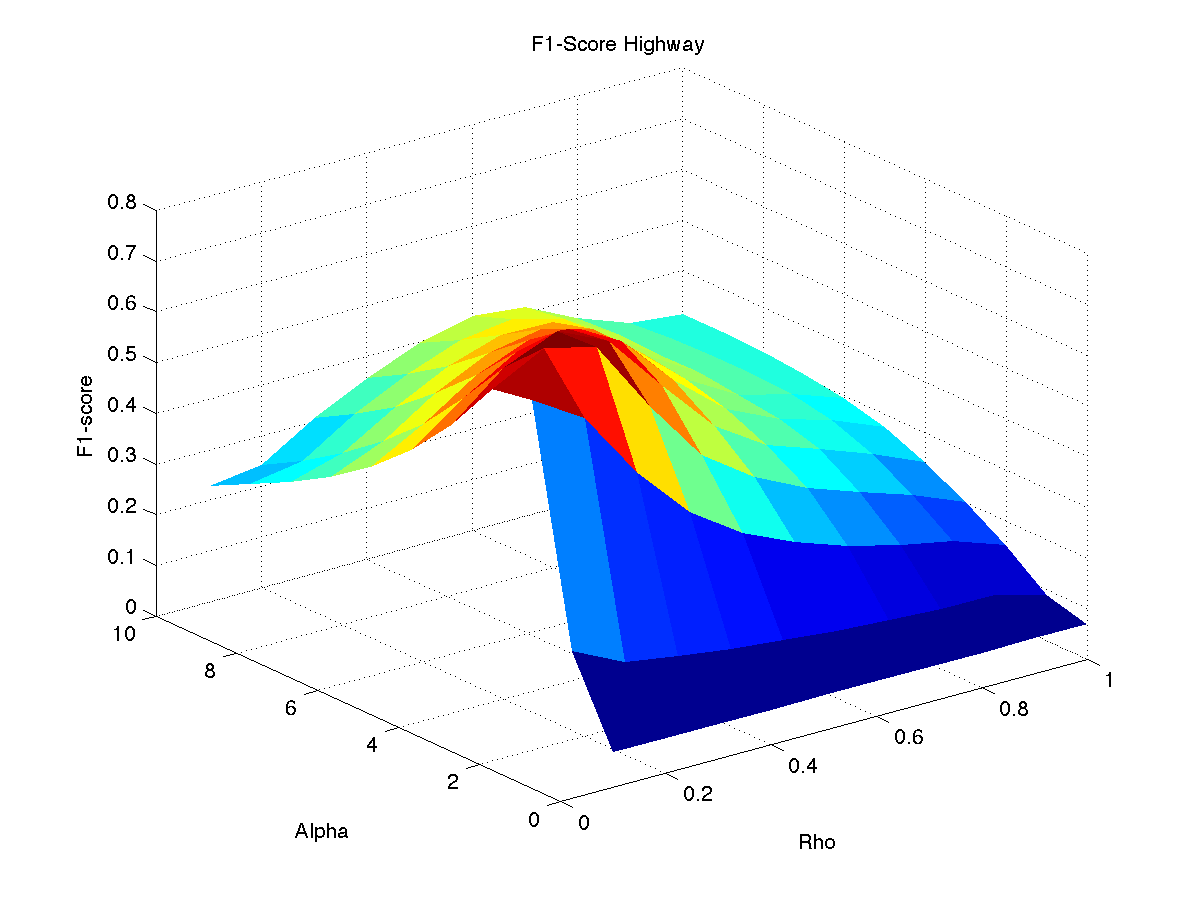
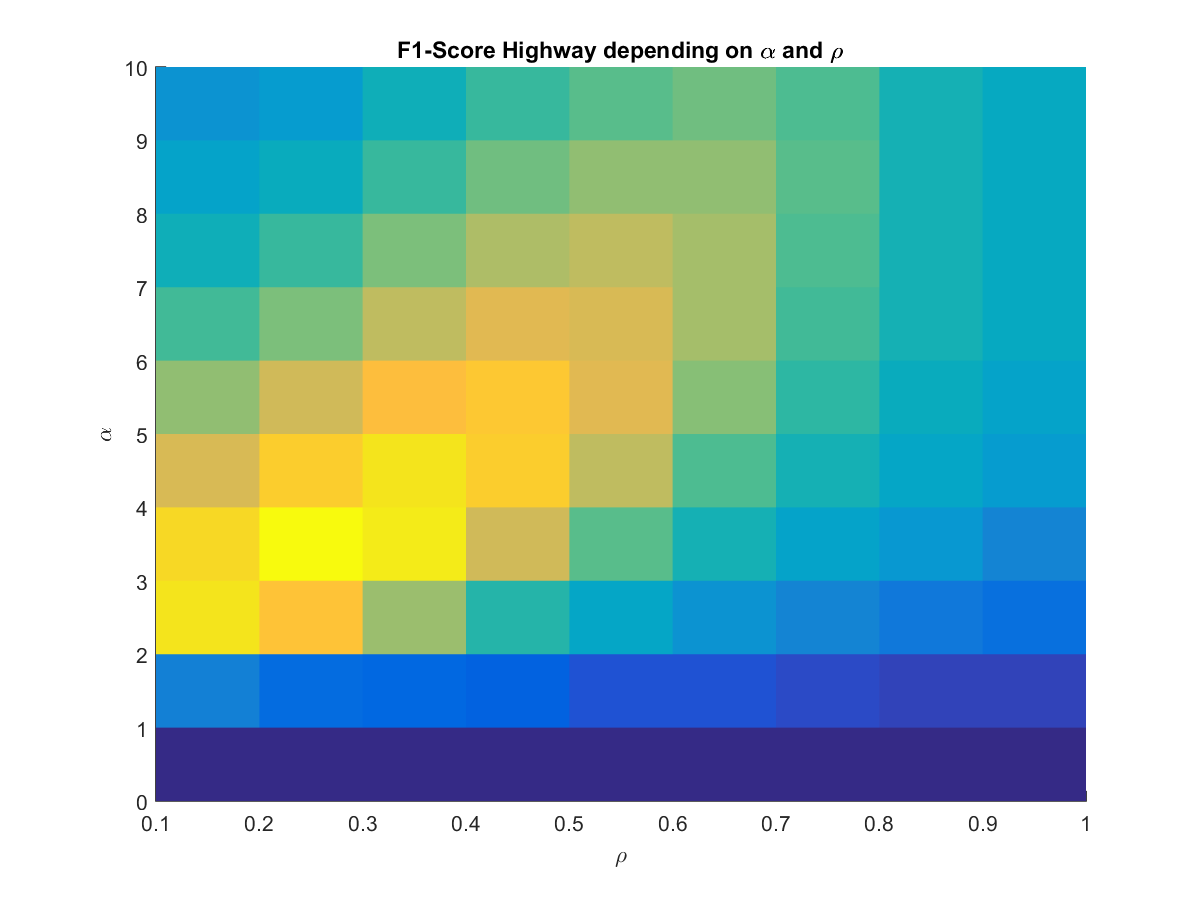
Added missing labels on figure axis and other minor aesthetic improvements.

diff --git a/block2/src/main.m b/block2/src/main.m
@@ -135,7 +135,8 @@ fig = figure('Visible','off');
 plot(thresholdAlpha,tp1,'r'); hold on;
 plot(thresholdAlpha,fp1,'g'); plot(thresholdAlpha,fn1,'b'); plot(thresholdAlpha,tn1,'y'); 
 %Overwrite title and legend
-title('Highway'); legend({'TP' , 'FP' , 'FN' , 'TN'}); hold off;
+title('Highway: TP FN TN FP for one gaussian'); xlabel('Threshold (\alpha)'); ylabel('Number of pixels');
+legend({'TP' , 'FP' , 'FN' , 'TN'}); hold off;
 print(fig,[ figuresFolder 'Task2_highway' ],'-dpng')
 
 % Test 2
@@ -143,7 +144,8 @@ fig = figure('Visible','off');
 plot(thresholdAlpha,tp2,'r'); hold on;
 plot(thresholdAlpha,fp2,'g'); plot(thresholdAlpha,fn2,'b'); plot(thresholdAlpha,tn2,'y'); 
 %Overwrite title and legend
-title('Fall'); legend({'TP' , 'FP' , 'FN' , 'TN'}); hold off;
+title('Fall: TP FN TN FP for one gaussian');  xlabel('Threshold (\alpha)'); ylabel('Number of pixels');
+legend({'TP' , 'FP' , 'FN' , 'TN'}); hold off;
 print(fig,[ figuresFolder 'Task2_fall' ],'-dpng')
 
 % Test 3
@@ -151,7 +153,8 @@ fig = figure('Visible','off');
 plot(thresholdAlpha,tp3,'r'); hold on;
 plot(thresholdAlpha,fp3,'g'); plot(thresholdAlpha,fn3,'b'); plot(thresholdAlpha,tn3,'y'); 
 %Overwrite title and legend
-title('Traffic'); legend({'TP' , 'FP' , 'FN' , 'TN'}); hold off;
+title('Traffic: TP FN TN FP for one gaussian');  xlabel('Threshold (\alpha)'); ylabel('Number of pixels');
+legend({'TP' , 'FP' , 'FN' , 'TN'}); hold off;
 print(fig,[ figuresFolder 'Task2_traffic' ],'-dpng')
 
 % F1 score
@@ -159,7 +162,9 @@ fig = figure('Visible','off');
 plot(thresholdAlpha,f1score1,'r'); hold on;
 plot(thresholdAlpha,f1score2,'g'); plot(thresholdAlpha,f1score3,'b'); 
 %Overwrite title and legend
-title('F1-Score vs threshold'); legend({'Highway' , 'Fall' , 'Traffic'}); hold off;
+title('F1-Score depending on threshold (\alpha)'); 
+xlabel('Threshold (\alpha)'); ylabel('F1-Score');
+legend({'Highway' , 'Fall' , 'Traffic'}); hold off;
 print(fig,[ figuresFolder 'Task2_f1score' ],'-dpng')
 
 % Precision Recall Test 1
@@ -276,7 +281,7 @@ for rho = minRho:stepRho:maxRho
     
     countRho = countRho + 1;
     
-    disp(sprintf('%f%%', 100*(countRho-1)/szMetricsRho))
+    fprintf('%f%%\n', 100*(countRho-1)/szMetricsRho);
 end % for
 rmpath('./../../evaluation')
 
@@ -285,7 +290,9 @@ fig = figure('Visible','off');
 plot(thresholdRho,f1score1,'r'); hold on;
 plot(thresholdRho,f1score2,'g'); plot(thresholdRho,f1score3,'b'); 
 %Overwrite title and legend
-title('F1-Score vs threshold (RHO)'); legend({'Highway' , 'Fall' , 'Traffic'}); hold off;
+title('F1-Score depending on threshold (\rho)'); 
+xlabel('Threshold (\rho)'); ylabel('F1-Score');
+legend({'Highway' , 'Fall' , 'Traffic'}); hold off;
 print(fig,[ figuresFolder 'Task4_f1score_rho' ],'-dpng')
 
 % B) Alpha and Rho
@@ -347,7 +354,7 @@ for alpha = minAlpha:stepAlpha:maxAlpha
         countRho = countRho + 1;
         k = k + 1;
         
-        disp(sprintf('%f%%', 100*k/(szMetricsAlpha*szMetricsRho)))
+        fprintf('%f%%\n', 100*k/(szMetricsAlpha*szMetricsRho));
     end % for
     countAlpha = countAlpha + 1;
 end % for
@@ -355,18 +362,30 @@ rmpath('./../../evaluation')
 
 % F1 score
 [xt, yt] = meshgrid(thresholdRho, thresholdAlpha);
-fig = figure('Visible','off'); h = surf(xt, yt, f1score1); xlabel('Rho'), ylabel('Alpha'), zlabel('F1-score'), set(h, 'edgecolor', 'none'); title('F1-Score Highway');
+fig = figure('Visible','off'); 
+title('F1-Score Highway depending on \alpha and \rho');
+xlabel('\rho'), ylabel('\alpha'), zlabel('F1-score');
+h = surf(xt, yt, f1score1);  set(h, 'edgecolor', 'none');
 print(fig,[ figuresFolder 'Task4_f1score_highway_rho_alpha' ],'-dpng')
-fig = figure('Visible','off'); h = surf(xt, yt, f1score2); xlabel('Rho'), ylabel('Alpha'), zlabel('F1-score'), set(h, 'edgecolor', 'none'); title('F1-Score Fall');
+
+fig = figure('Visible','off'); 
+title('F1-Score Fall depending on \alpha and \rho');
+h = surf(xt, yt, f1score2); set(h, 'edgecolor', 'none'); 
+xlabel('\rho'), ylabel('\alpha'), zlabel('F1-score'); 
 print(fig,[ figuresFolder 'Task4_f1score_fall_rho_alpha' ],'-dpng')
-fig = figure('Visible','off'); h = surf(xt, yt, f1score3); xlabel('Rho'), ylabel('Alpha'), zlabel('F1-score'), set(h, 'edgecolor', 'none'); title('F1-Score Traffic');
+
+fig = figure('Visible','off'); 
+title('F1-Score Traffic depending on \rho and \alpha');
+xlabel('\rho'), ylabel('\alpha'), zlabel('F1-score');
+h = surf(xt, yt, f1score3); set(h, 'edgecolor', 'none');
 print(fig,[ figuresFolder 'Task4_f1score_traffic_rho_alpha' ],'-dpng')
 
-[f1, ind] = max(f1score1(:)); [alphaB, rhoB] = ind2sub(size(f1score1), ind); disp(sprintf('Best alpha = %f and rho = %f for Test 1 (F1-score = %f)', thresholdAlpha(alphaB), thresholdRho(rhoB), f1))
-[f1, ind] = max(f1score2(:)); [alphaB, rhoB] = ind2sub(size(f1score2), ind); disp(sprintf('Best alpha = %f and rho = %f for Test 2 (F1-score = %f)', thresholdAlpha(alphaB), thresholdRho(rhoB), f1))
-[f1, ind] = max(f1score3(:)); [alphaB, rhoB] = ind2sub(size(f1score3), ind); disp(sprintf('Best alpha = %f and rho = %f for Test 3 (F1-score = %f)', thresholdAlpha(alphaB), thresholdRho(rhoB), f1))
-
-
+[f1, ind] = max(f1score1(:)); [alphaB, rhoB] = ind2sub(size(f1score1), ind); 
+fprintf('Best alpha = %f and rho = %f for Test 1 (F1-score = %f)\n', thresholdAlpha(alphaB), thresholdRho(rhoB), f1);
+[f1, ind] = max(f1score2(:)); [alphaB, rhoB] = ind2sub(size(f1score2), ind); 
+fprintf('Best alpha = %f and rho = %f for Test 2 (F1-score = %f)\n', thresholdAlpha(alphaB), thresholdRho(rhoB), f1);
+[f1, ind] = max(f1score3(:)); [alphaB, rhoB] = ind2sub(size(f1score3), ind); 
+fprintf('Best alpha = %f and rho = %f for Test 3 (F1-score = %f)\n', thresholdAlpha(alphaB), thresholdRho(rhoB), f1);
 
 %% Task 5
 % Compute the F1 score (for the fixed value of ? computed in Task 4 and ? in Task
@@ -435,7 +454,7 @@ for i=1:size(f1Scores,2)
    plot(minGaussians:maxGaussians, f1Scores(:,i), colorList(i)); 
 end
 title('F1Score evolution along number of Gaussians', 'FontWeight', 'Bold');
-xlabel('Number of Gaussians'); ylabel('F1Score');
+xlabel('Number of Gaussians'); ylabel('F1-Score');
 legend({'Highway', 'Fall', 'Traffic'});
 print(fig,[ figuresFolder 'Task6_f1score' ],'-dpng')
 
